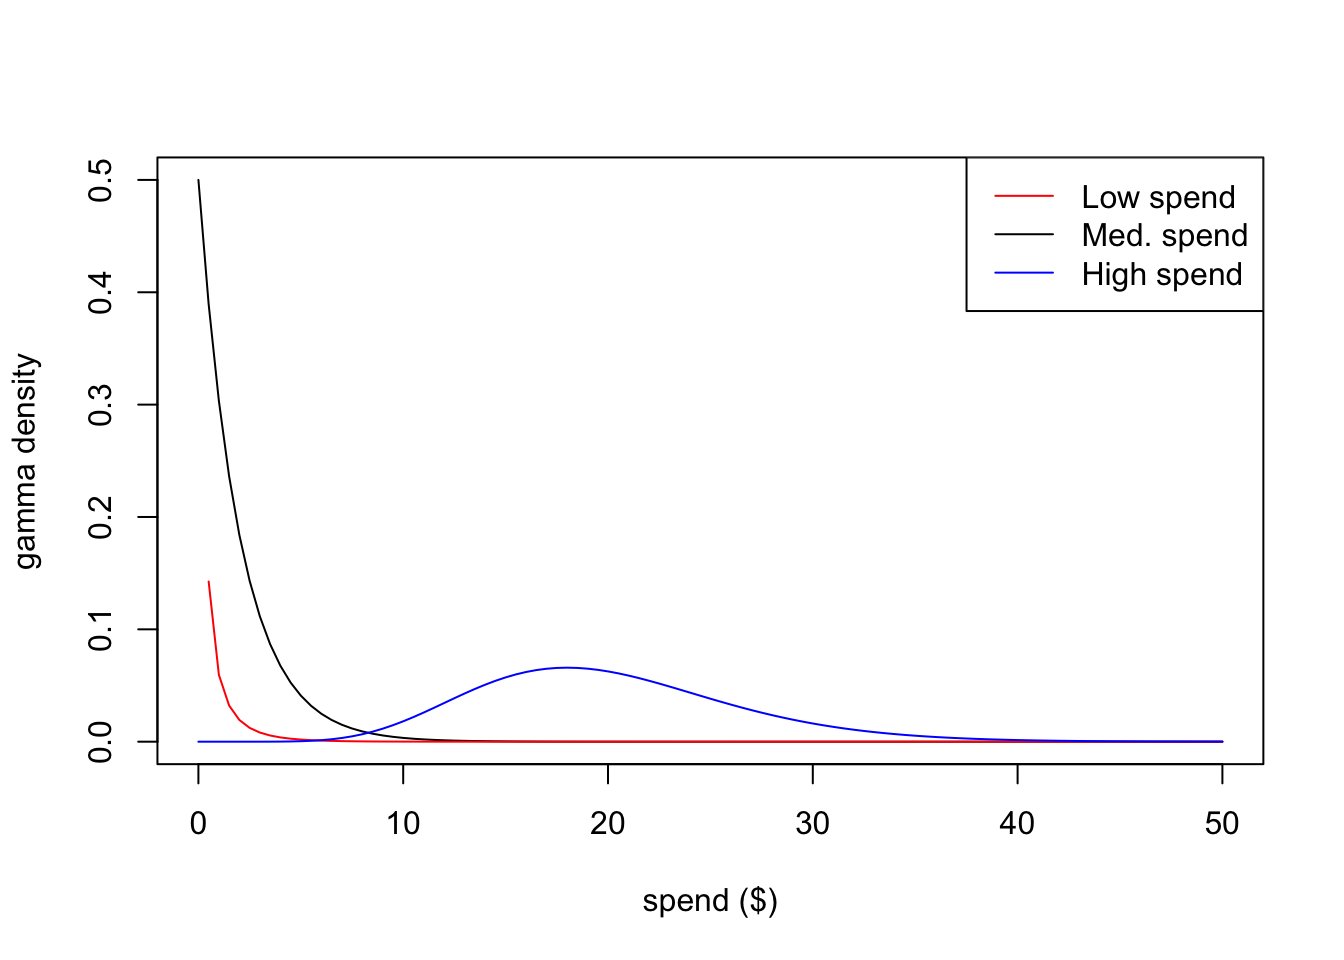
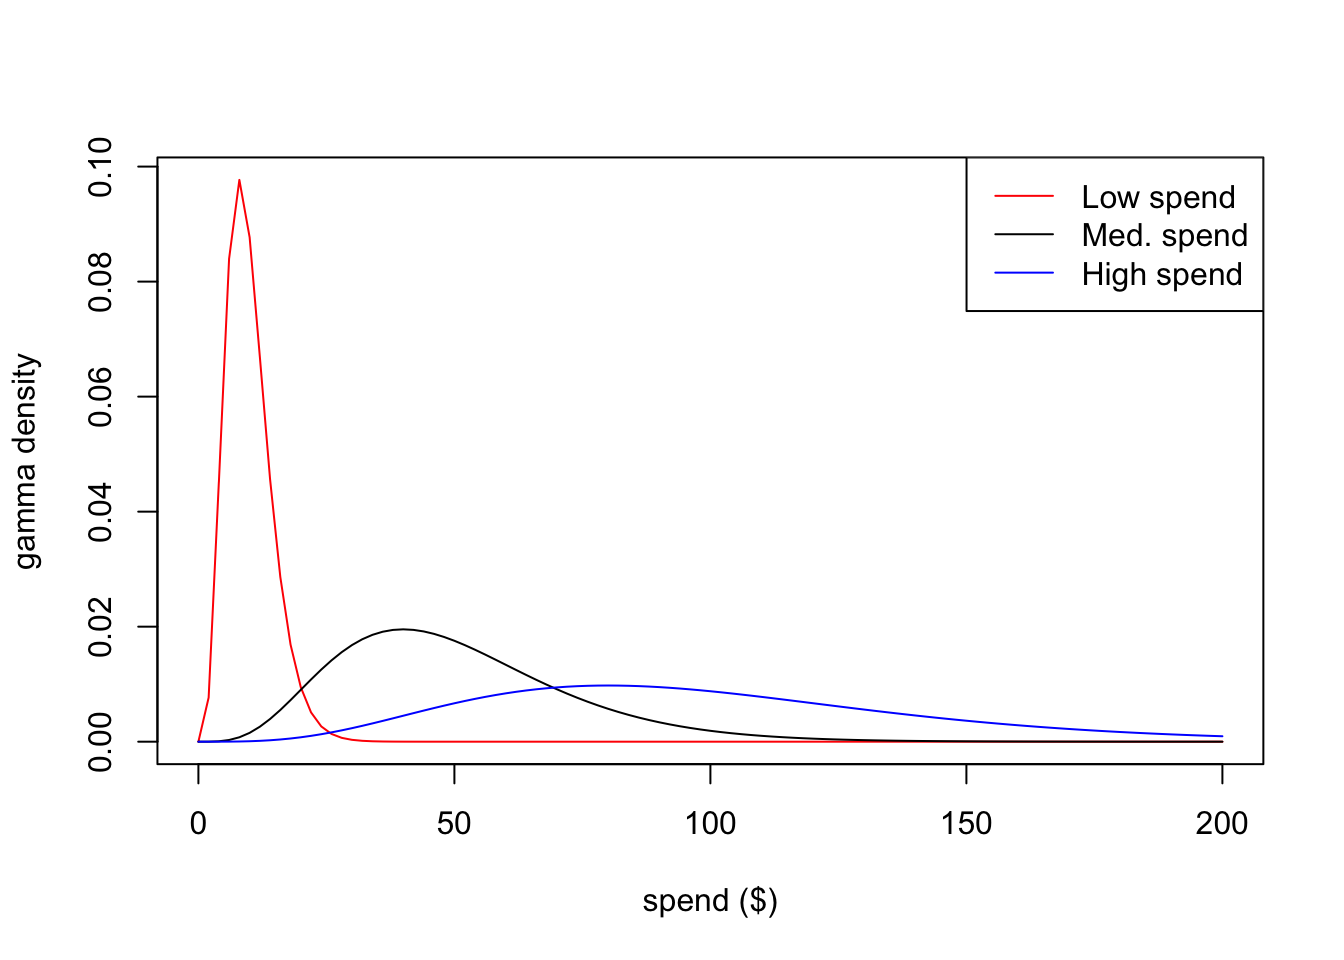
updates to draft post

diff --git a/docs/posts/ecommerce-clv2/index.html b/docs/posts/ecommerce-clv2/index.html
@@ -220,7 +220,7 @@ pre > code.sourceCode > span > a:first-child::before { text-decoration: underlin
 
 <section id="recap" class="level2">
 <h2 class="anchored" data-anchor-id="recap">Recap</h2>
-<p><a href="../../posts/ecommerce-clv/index.html">In my previous post</a> on counting customers, I fit an example of a ‘buy-till-you-die’ (BTYD) model to a transaction log from an ecommerce retailer. The model provided insight into customer churn dynamics, even though the setting was non-contractual (customers were free to make purchases or churn at any time). In this post, I build upon that model by introducing the spending component, expanding the application beyond just churn to include customer lifetime value (CLV).</p>
+<p><a href="../../posts/ecommerce-clv/index.html">In my previous post</a> on counting customers, I fit an example of a ‘buy-till-you-die’ (BTYD) model to a transaction log from an ecommerce retailer. The model offered insight into customer churn dynamics, even though attrition was latent (customers were free to churn at any time). In this next post in the series, I build upon the former model by introducing a spending component, capturing the monetary value of each customer’s transactional behaviors.</p>
 <div class="cell">
 <details class="code-fold">
 <summary>Code</summary>
@@ -243,27 +243,28 @@ pre > code.sourceCode > span > a:first-child::before { text-decoration: underlin
 <span id="cb1-17"><a href="#cb1-17" aria-hidden="true" tabindex="-1"></a>                 <span class="at">name.price=</span><span class="st">"price"</span>)</span></code><button title="Copy to Clipboard" class="code-copy-button"><i class="bi"></i></button></pre></div>
 </details>
 </div>
-<p>Through the analogy of two coins, I previously explained the mechanics of BTYD models. In a few words, these models provide the mathematical architecture for two statistical processes. First, the churn process: customers are continuously able to sever their relationship with the company or marketing channel, because we are in a non-contractual setting. Second, the purchasing process: customers are also able to make purchases with the company at any time, and these are the orders we directly observe in the company transaction log.</p>
-<p>By the end of fitting a BTYD model, it is appropriate to ask questions such as the size of the active customer base, relative to the original <em>cohort</em> size. It is important when dealing with cohorts to note, they are defined by a customer acquisition window–for example, a week, a month, or a quarter. In the previous post I considered a single cohort acquired during Q1 of 2024, using anonymous data from an ecommerce retailer.</p>
+<p>I previously explained the mechanics of BTYD models in an extended analogy. In a few words, these models provide mathematical architecture for two statistical processes. The first is churn: customers are continuously able to end their relationship with the company (or marketing channel), because relationships are not contractually structured. The second is purchasing: customers are able to make purchases at any time; these are the orders we directly observe in the company’s transaction log.</p>
+<p>It is appropriate to ask questions of a BTYD model such as the size of the active customer base, relative to the original <em>cohort</em>. It is important when dealing with cohorts to note, they are defined by an acquisition window–for example, a week, a month, or a quarter. In the example I modeled, I considered the single cohort acquired during Q1 of 2024. I used the anonymous transaction log of an ecommerce retailer.</p>
 </section>
-<section id="modeling-customer-spending" class="level2">
-<h2 class="anchored" data-anchor-id="modeling-customer-spending">Modeling Customer Spending</h2>
-<p>The questions posed above pertain to customer churn and purchasing tendencies. However, another very relevant question is how much each customer spends–their monetary value. This is where we introduce a third process to the story. Consider that the customers who spend little are worth less than those who spend more at each transaction. Recall we are viewing this from the perspective of a marketing manager, not the customer herself (who might argue this is unfair). However it is perfectly natural that company’s would focus on their higher-value customers and cater to their interests–airline companies frequently employ this strategy when marketing to their cardholders and frequent flyers.</p>
-<p>The spending process is different from the former two processes. Whereas churn and purchasing are generally <em>timing</em> processes, meaning they occur at intervals between key events, the spend process is instead a <em>magnitude</em> process. We’re specifically interested in the quantity of spending, measured in dollars, at each instance of purchasing.</p>
+<section id="modeling-customer-spend" class="level2">
+<h2 class="anchored" data-anchor-id="modeling-customer-spend">Modeling Customer Spend</h2>
+<p>The questions posed above pertain to customer churn and purchasing tendencies. However, another very relevant question is what the value of purchases tend to be, monetarily. This is where we introduce a third process. Consider that from the perspective of a marketing manager, customers who spend little are worth less than those who spend more at each opportunity–airline companies frequently exploit this strategy when marketing to their cardholders and frequent flyers.</p>
+<p>The spending process is different from the former two processes. Whereas churn and purchasing occur at intervals between events, making them <em>timing</em>-related processes, the spend process occurs on a scale of <em>magnitude</em>. We’re specifically interested in the quantity of spending, measured in dollars, at each opportunity.</p>
 </section>
 <section id="introducing-the-gamma-gamma-approach" class="level2 page-columns page-full">
 <h2 class="anchored" data-anchor-id="introducing-the-gamma-gamma-approach">Introducing the Gamma-Gamma Approach</h2>
-<p>Models of magnitude are ubiquitous across statistics and machine learning. Popular approaches include the linear regression, random forest, and deep learning-based methods, all estimating continuous quantities from a set of important predictors. A classic example is Zillow’s home price estimate; this model takes into account many characteristics about a property and outputs an expected sale price based on a huge set of training data.</p>
-<p>But in the literature of marketing science, academics have proposed an approach to modeling spending that treats each customer as a distinct unit. The difference between this approach and aforementioned methods is subtle but important. Customers are not like homes, they each have their own unique tendencies to spend on transactions. Moreover, we learn more about each customer every time they make a purchase with the company. This kind of feedback is not so common in the world of home buying–typically homes are sold once every few years, if that.</p>
-<p>The approach taken by marketing scientists who developed the BTYD model is called the gamma-gamma model.<a href="#fn1" class="footnote-ref" id="fnref1" role="doc-noteref"><sup>1</sup></a> It is named for the statistical distribution known as the <em>gamma</em> distribution. The gamma distrbution can take many forms, such as the following shapes:</p>
+<p>Models of magnitude are ubiquitous across statistics and machine learning. Popular approaches include linear regression, random forest, and deep learning-based methods, all estimating continuous quantities from a set of important predictors. A classic example is Zillow’s home price estimate; this model takes into account many characteristics about a property and outputs an expected sale price based on am exemplary set of home sales data.</p>
+<p>But in the literature of marketing science, customers tend to be treated as distinct units. The difference between is subtle but important. Customers are not like homes–customers have unique spending patterns, homes prices are the sum of many predictable factors (i.e., proximity to schools, square footage, number of bedrooms). Each time a customer places an order, we learn more about them. This kind of feedback loop allows for serial <em>updating</em> of our expectations about each customer; the same is not true of home values.</p>
+<p>The spending model devised by the marketing scientists who developed the BTYD model is called the gamma-gamma.<a href="#fn1" class="footnote-ref" id="fnref1" role="doc-noteref"><sup>1</sup></a> It is named–quite literally–for the statistical distribution known as the <em>gamma</em> distribution. The gamma distrbution is mathematically convenient and flexible. For example, the following curves are all gamma distributions with differences in a single <em>parameter</em>:</p>
 <div class="cell page-columns page-full">
 <details class="code-fold">
 <summary>Code</summary>
-<div class="sourceCode cell-code" id="cb2"><pre class="sourceCode r code-with-copy"><code class="sourceCode r"><span id="cb2-1"><a href="#cb2-1" aria-hidden="true" tabindex="-1"></a><span class="fu">curve</span>(<span class="fu">dgamma</span>(x, <span class="at">shape=</span><span class="dv">1</span>, <span class="at">rate=</span><span class="dv">1</span><span class="sc">/</span><span class="dv">2</span>), <span class="at">to=</span><span class="dv">50</span>, <span class="at">ylab=</span><span class="st">"gamma density"</span>, <span class="at">xlab=</span><span class="st">"spend ($)"</span>)</span>
-<span id="cb2-2"><a href="#cb2-2" aria-hidden="true" tabindex="-1"></a><span class="fu">curve</span>(<span class="fu">dgamma</span>(x, <span class="at">shape=</span><span class="dv">1</span><span class="sc">/</span><span class="dv">10</span>, <span class="at">rate=</span><span class="dv">1</span><span class="sc">/</span><span class="dv">2</span>), <span class="at">to=</span><span class="dv">50</span>, <span class="at">add=</span><span class="cn">TRUE</span>, <span class="at">col=</span><span class="st">"red"</span>)</span>
-<span id="cb2-3"><a href="#cb2-3" aria-hidden="true" tabindex="-1"></a><span class="fu">curve</span>(<span class="fu">dgamma</span>(x, <span class="at">shape=</span><span class="dv">10</span>, <span class="at">rate=</span><span class="dv">1</span><span class="sc">/</span><span class="dv">2</span>), <span class="at">to=</span><span class="dv">50</span>, <span class="at">add=</span><span class="cn">TRUE</span>, <span class="at">col=</span><span class="st">"blue"</span>)</span>
-<span id="cb2-4"><a href="#cb2-4" aria-hidden="true" tabindex="-1"></a><span class="fu">legend</span>(<span class="st">"topright"</span>, <span class="fu">c</span>(<span class="st">"Low spend"</span>, <span class="st">"Med. spend"</span>, <span class="st">"High spend"</span>),</span>
-<span id="cb2-5"><a href="#cb2-5" aria-hidden="true" tabindex="-1"></a>       <span class="at">col=</span><span class="fu">c</span>(<span class="st">"red"</span>, <span class="st">"black"</span>, <span class="st">"blue"</span>), <span class="at">lty=</span><span class="dv">1</span>)</span></code><button title="Copy to Clipboard" class="code-copy-button"><i class="bi"></i></button></pre></div>
+<div class="sourceCode cell-code" id="cb2"><pre class="sourceCode r code-with-copy"><code class="sourceCode r"><span id="cb2-1"><a href="#cb2-1" aria-hidden="true" tabindex="-1"></a><span class="fu">curve</span>(<span class="fu">dgamma</span>(x, <span class="at">shape=</span><span class="dv">5</span>, <span class="at">rate=</span><span class="fl">0.5</span>), <span class="at">col=</span><span class="st">"red"</span>, <span class="at">to=</span><span class="dv">200</span>,</span>
+<span id="cb2-2"><a href="#cb2-2" aria-hidden="true" tabindex="-1"></a>      <span class="at">ylab=</span><span class="st">"gamma density"</span>, <span class="at">xlab=</span><span class="st">"spend ($)"</span>)</span>
+<span id="cb2-3"><a href="#cb2-3" aria-hidden="true" tabindex="-1"></a><span class="fu">curve</span>(<span class="fu">dgamma</span>(x, <span class="at">shape=</span><span class="dv">5</span>, <span class="at">rate=</span><span class="fl">0.1</span>), <span class="at">add=</span><span class="cn">TRUE</span>)</span>
+<span id="cb2-4"><a href="#cb2-4" aria-hidden="true" tabindex="-1"></a><span class="fu">curve</span>(<span class="fu">dgamma</span>(x, <span class="at">shape=</span><span class="dv">5</span>, <span class="at">rate=</span><span class="fl">0.05</span>), <span class="at">add=</span><span class="cn">TRUE</span>, <span class="at">col=</span><span class="st">"blue"</span>)</span>
+<span id="cb2-5"><a href="#cb2-5" aria-hidden="true" tabindex="-1"></a><span class="fu">legend</span>(<span class="st">"topright"</span>, <span class="fu">c</span>(<span class="st">"Low spend"</span>, <span class="st">"Med. spend"</span>, <span class="st">"High spend"</span>),</span>
+<span id="cb2-6"><a href="#cb2-6" aria-hidden="true" tabindex="-1"></a>       <span class="at">col=</span><span class="fu">c</span>(<span class="st">"red"</span>, <span class="st">"black"</span>, <span class="st">"blue"</span>), <span class="at">lty=</span><span class="dv">1</span>)</span></code><button title="Copy to Clipboard" class="code-copy-button"><i class="bi"></i></button></pre></div>
 </details>
 <div class="cell-output-display page-columns page-full">
 <div id="fig-gamma-examples" class="quarto-float quarto-figure quarto-figure-center anchored page-columns page-full">
@@ -272,21 +273,21 @@ pre > code.sourceCode > span > a:first-child::before { text-decoration: underlin
 <img src="index_files/figure-html/fig-gamma-examples-1.png" class="img-fluid figure-img" width="672">
 </div>
 <figcaption class="quarto-float-caption-margin quarto-float-caption quarto-float-fig margin-caption" id="fig-gamma-examples-caption-0ceaefa1-69ba-4598-a22c-09a6ac19f8ca">
-Figure&nbsp;1: Examples of the Gamma Distribution
+Figure&nbsp;1: Examples of the Gamma Distribution in the context of customer spending tendencies
 </figcaption>
 </figure>
 </div>
 </div>
 </div>
-<p>In <a href="#fig-gamma-examples" class="quarto-xref">Figure&nbsp;1</a>, we can think of each curve as representing the spending value of an individual customer. The customer in blue has high spend; they tend to spend anywhere from $10 to $30 per order. In contrast, the customer in red has low spend; they often spend less that $5 per order. These are just hypothetical customers, though. The gamma-gamma model will generate realistic curves for each customer, if we ask it to do so.</p>
-<p>More important that predicting the individual customers’ tendencies is describing the cohort in its enirety–acknowledging <em>heretogeneity</em>. This model layer assumes that each customer’s spending is governed by a hierarchical distribution, which is another gamma distribution, hence the name of the method. While it is not critical to understand the mathematics of the underlying model at this stage, it is important to note the most restrictive assumptions:</p>
+<p>In <a href="#fig-gamma-examples" class="quarto-xref">Figure&nbsp;1</a>, we can think of each curve as governing the spending values of an individual customer. The customer in blue has high spending tendencies; they spend, on average, $100. In contrast, the customer in red has low spend; they spend $10 on average. These are just hypothetical customers, though. The gamma-gamma model will yield realistic curves for each customer.</p>
+<p>More important than predicting individual customers’ spending is describing the cohort in its enirety, by acknowledging <em>heretogeneity</em>. Heterogeneity is a model layer that assumes each customer’s spending is governed by a common distribution. How can that be? Consider these two statements:</p>
 <ol type="1">
-<li>Each customer has her own average transaction value, and actual spend varies systematically around that average.</li>
-<li>The distribution of average transaction values across customers is statistically independent of the purchasing/churn process, described previously.</li>
+<li>Each customer has her own average transaction value, and actual spending varies systematically around that average (see <a href="#fig-gamma-examples" class="quarto-xref">Figure&nbsp;1</a> for three customer examples).</li>
+<li>The distribution of average transaction values <em>across</em> customers is statistically independent of the purchasing/churn process.</li>
 </ol>
-<p>Together these assumptions make the model estimable. In the next section I will demonstrate estimation using the freely-available <code>CLVtools</code> package.<a href="#fn2" class="footnote-ref" id="fnref2" role="doc-noteref"><sup>2</sup></a></p>
+<p>Together these two assumptions make the gamma-gamma model estimable. In the next section I will demonstrate estimation using the open-source <code>CLVtools</code> package.<a href="#fn2" class="footnote-ref" id="fnref2" role="doc-noteref"><sup>2</sup></a></p>
 </section>
-<section id="combining-models-to-estimate-clv" class="level2">
+<section id="combining-models-to-estimate-clv" class="level2 page-columns page-full">
 <h2 class="anchored" data-anchor-id="combining-models-to-estimate-clv">Combining Models to Estimate CLV</h2>
 <p>I wont belabor points about data preparation again. If interested, see my previous post.</p>
 <p>Assuming we have a transaction log and adequately prepared our cohort data, we wish to estimate a gamma-gamma model for the monetary spending process at the customer level. This is easily achieved with the following <code>R</code> code:</p>
@@ -297,20 +298,25 @@ Figure&nbsp;1: Examples of the Gamma Distribution
 <span id="cb3-2"><a href="#cb3-2" aria-hidden="true" tabindex="-1"></a><span class="fu">coef</span>(spendQ1)</span></code><button title="Copy to Clipboard" class="code-copy-button"><i class="bi"></i></button></pre></div>
 </details>
 <div class="cell-output cell-output-stdout">
-<pre><code>           p            q        gamma 
-6.297293e+05 2.756789e+00 2.521008e-04 </code></pre>
+<pre><code>                p                 q             gamma 
+629729.2831546174      2.7567893502      0.0002521008 </code></pre>
 </div>
 </div>
-<p>The printed parameters govern the spend process. It is most useful to examine an illustration of this model’s spending estimates.</p>
-<div class="cell">
+<p>The printed parameters govern the entire spend model. It is most useful to examine an illustration of this model’s estimates:</p>
+<div class="cell page-columns page-full">
 <details class="code-fold">
 <summary>Code</summary>
 <div class="sourceCode cell-code" id="cb5"><pre class="sourceCode r code-with-copy"><code class="sourceCode r"><span id="cb5-1"><a href="#cb5-1" aria-hidden="true" tabindex="-1"></a><span class="fu">plot</span>(spendQ1)</span></code><button title="Copy to Clipboard" class="code-copy-button"><i class="bi"></i></button></pre></div>
 </details>
-<div class="cell-output-display">
-<div>
-<figure class="figure">
-<p><img src="index_files/figure-html/unnamed-chunk-4-1.png" class="img-fluid figure-img" width="672"></p>
+<div class="cell-output-display page-columns page-full">
+<div id="fig-spend-avg" class="quarto-float quarto-figure quarto-figure-center anchored page-columns page-full">
+<figure class="quarto-float quarto-float-fig figure page-columns page-full">
+<div aria-describedby="fig-spend-avg-caption-0ceaefa1-69ba-4598-a22c-09a6ac19f8ca">
+<img src="index_files/figure-html/fig-spend-avg-1.png" class="img-fluid figure-img" width="672">
+</div>
+<figcaption class="quarto-float-caption-margin quarto-float-caption quarto-float-fig margin-caption" id="fig-spend-avg-caption-0ceaefa1-69ba-4598-a22c-09a6ac19f8ca">
+Figure&nbsp;2: Distribution of average transaction values across customers, with Gamma-Gamma model overlay (red)
+</figcaption>
 </figure>
 </div>
 </div>
